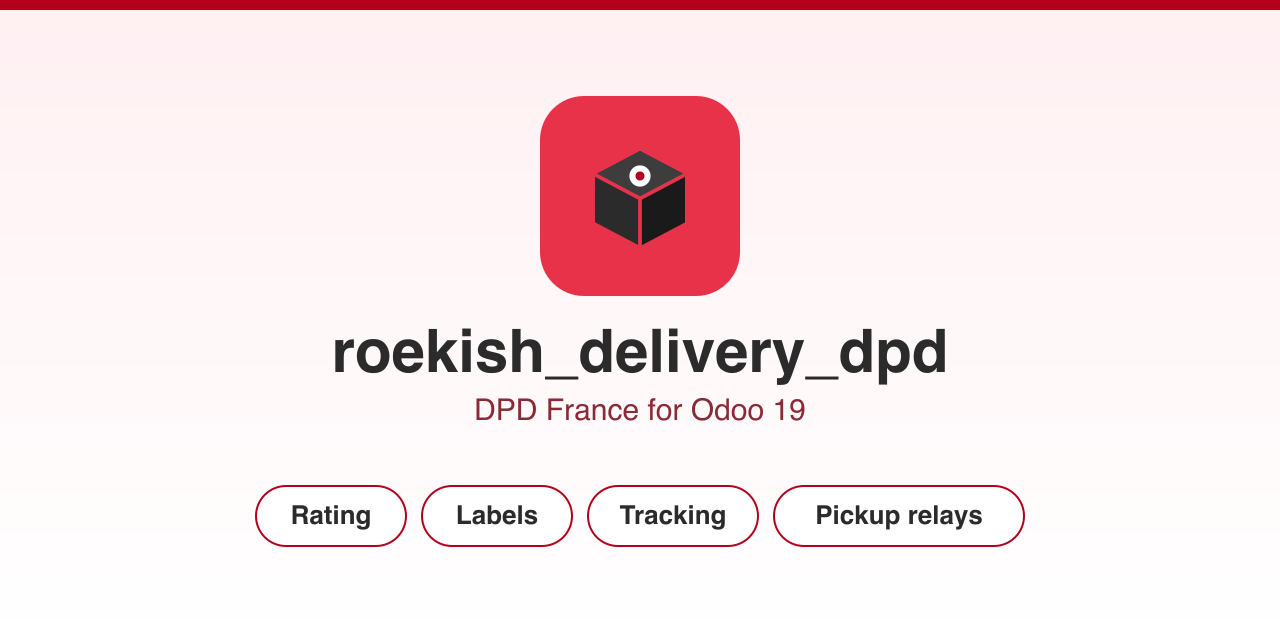
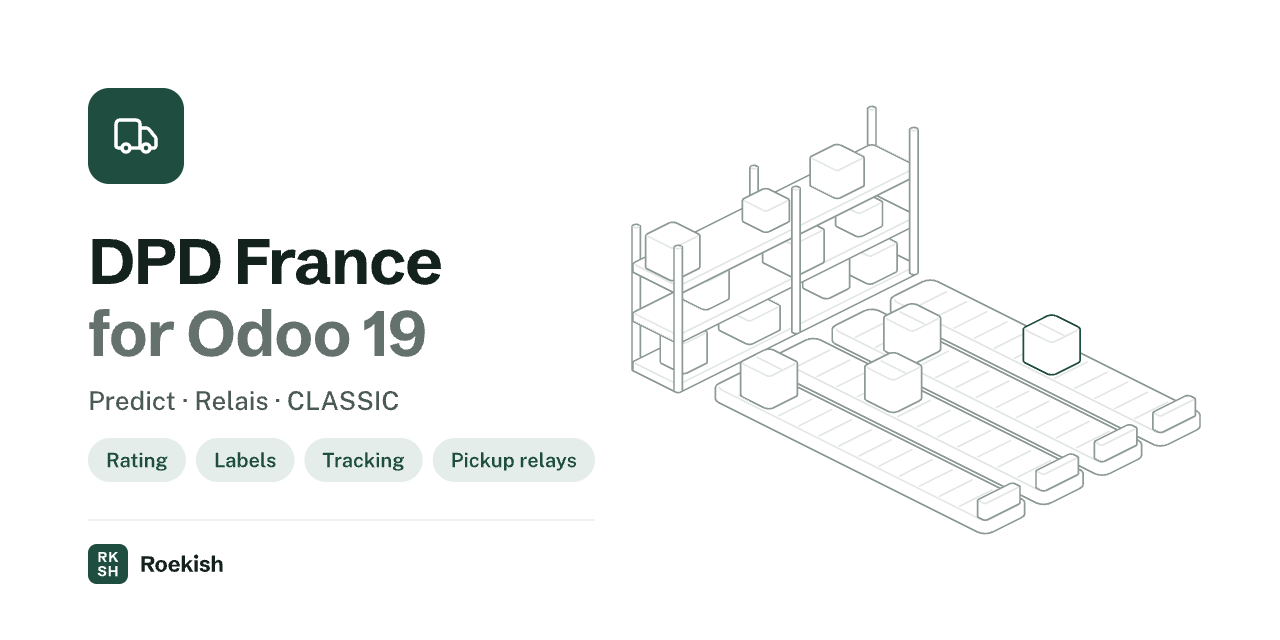
chore(store): Roekish brand assets and verified store page
New icon, banner and README logo in the Roekish brand; App Store
description restyled, with every fact checked against the README and code.

diff --git a/roekish_delivery_dpd/static/description/index.html b/roekish_delivery_dpd/static/description/index.html
@@ -1,61 +1,36 @@
-<section style="font-family:'Segoe UI',Roboto,Helvetica,Arial,sans-serif;color:#22344F;max-width:960px;margin:0 auto;">
+<section style="font-family:'Schibsted Grotesk','Public Sans',-apple-system,'Segoe UI',Roboto,Helvetica,Arial,sans-serif;color:#13221D;background:#FFFFFF;max-width:960px;margin:0 auto;padding:0 16px;box-sizing:border-box;">
 
-  <p style="text-align:center;margin:0 0 24px;">
-    <img src="banner.png" alt="roekish_delivery_dpd" style="max-width:100%;height:auto;border-radius:8px;"/>
+  <p style="margin:0 0 32px;">
+    <img src="banner.png" alt="DPD France for Odoo 19, published by Roekish" style="display:block;width:100%;max-width:100%;height:auto;border:1px solid #E2E7E4;border-radius:12px;"/>
   </p>
 
-  <h1 style="text-align:center;font-size:34px;margin:8px 0;">DPD France for Odoo 19: Predict, Relais, CLASSIC</h1>
-  <p style="text-align:center;font-size:18px;color:#5c6b82;margin:0 0 32px;">
-    Rate shipments, generate labels, track parcels and offer Pickup relay
-    delivery, straight from Odoo.
+  <p style="margin:0 0 8px;font-size:13px;font-weight:600;letter-spacing:0.06em;text-transform:uppercase;color:#1F4D3F;">Odoo 19 &middot; Inventory / Delivery</p>
+  <h1 style="font-family:'Schibsted Grotesk','Public Sans',-apple-system,'Segoe UI',Roboto,Helvetica,Arial,sans-serif;font-size:34px;line-height:1.15;font-weight:700;letter-spacing:-0.02em;color:#13221D;margin:0 0 12px;">DPD France for Odoo 19: Predict, Relais, CLASSIC</h1>
+  <p style="font-size:18px;line-height:1.6;color:#4C5A55;margin:0 0 8px;">Rate shipments, generate labels, track parcels and offer Pickup relay delivery from Odoo.</p>
+
+  <h2 style="font-family:'Schibsted Grotesk','Public Sans',-apple-system,'Segoe UI',Roboto,Helvetica,Arial,sans-serif;font-size:22px;font-weight:700;letter-spacing:-0.01em;color:#13221D;margin:44px 0 16px;padding-bottom:10px;border-bottom:2px solid #1F4D3F;">Features</h2>
+  <table style="width:100%;border-collapse:collapse;border-bottom:1px solid #E2E7E4;margin:0 0 8px;"><tr><td style="padding:12px 16px 12px 0;border-top:1px solid #E2E7E4;vertical-align:top;width:30%;font-family:'Schibsted Grotesk','Public Sans',-apple-system,'Segoe UI',Roboto,Helvetica,Arial,sans-serif;font-weight:600;font-size:15px;color:#13221D;">Rating</td><td style="padding:12px 0;border-top:1px solid #E2E7E4;vertical-align:top;font-size:15px;line-height:1.6;color:#4C5A55;">Delivery price computed from a DPD tariff grid (weight by zone) or from Odoo's native pricing rules. On the grid, a fuel surcharge (%) and fixed fees per parcel are added, and the volumetric weight (volume in cm&sup3; divided by a divisor, 5000 at DPD) can replace the real weight when it is greater.</td></tr><tr><td style="padding:12px 16px 12px 0;border-top:1px solid #E2E7E4;vertical-align:top;width:30%;font-family:'Schibsted Grotesk','Public Sans',-apple-system,'Segoe UI',Roboto,Helvetica,Arial,sans-serif;font-weight:600;font-size:15px;color:#13221D;">Delivery time</td><td style="padding:12px 0;border-top:1px solid #E2E7E4;vertical-align:top;font-size:15px;line-height:1.6;color:#4C5A55;">Announced delivery time in working days (minimum and maximum), set on the carrier and overridable per zone in the tariff grid. Returned with every quote and shown in the shipping wizard, so carriers can be compared on cost and speed.</td></tr><tr><td style="padding:12px 16px 12px 0;border-top:1px solid #E2E7E4;vertical-align:top;width:30%;font-family:'Schibsted Grotesk','Public Sans',-apple-system,'Segoe UI',Roboto,Helvetica,Arial,sans-serif;font-weight:600;font-size:15px;color:#13221D;">Labels</td><td style="padding:12px 0;border-top:1px solid #E2E7E4;vertical-align:top;font-size:15px;line-height:1.6;color:#4C5A55;">DPD label generation through <code style="font-family:SFMono-Regular,Menlo,Consolas,monospace;font-size:14px;background:#F4F6F5;color:#13221D;padding:1px 5px;border-radius:4px;">roulier</code> on the e-Station web service (production or test environment), with the parcel number stored on the delivery order. PDF, PDF A6, ZPL or PNG.</td></tr><tr><td style="padding:12px 16px 12px 0;border-top:1px solid #E2E7E4;vertical-align:top;width:30%;font-family:'Schibsted Grotesk','Public Sans',-apple-system,'Segoe UI',Roboto,Helvetica,Arial,sans-serif;font-weight:600;font-size:15px;color:#13221D;">Tracking</td><td style="padding:12px 0;border-top:1px solid #E2E7E4;vertical-align:top;font-size:15px;line-height:1.6;color:#4C5A55;">A DPD tracking link is exposed to the customer.</td></tr><tr><td style="padding:12px 16px 12px 0;border-top:1px solid #E2E7E4;vertical-align:top;width:30%;font-family:'Schibsted Grotesk','Public Sans',-apple-system,'Segoe UI',Roboto,Helvetica,Arial,sans-serif;font-weight:600;font-size:15px;color:#13221D;">Pickup relays</td><td style="padding:12px 0;border-top:1px solid #E2E7E4;vertical-align:top;font-size:15px;line-height:1.6;color:#4C5A55;">Search nearby relays (Pickup MyPudo web service) and select one on the quotation or the delivery order, propagated on confirmation and sent on the label. The search key is optional: without it, type the relay ID directly.</td></tr><tr><td style="padding:12px 16px 12px 0;border-top:1px solid #E2E7E4;vertical-align:top;width:30%;font-family:'Schibsted Grotesk','Public Sans',-apple-system,'Segoe UI',Roboto,Helvetica,Arial,sans-serif;font-weight:600;font-size:15px;color:#13221D;">Products</td><td style="padding:12px 0;border-top:1px solid #E2E7E4;vertical-align:top;font-size:15px;line-height:1.6;color:#4C5A55;">DPD CLASSIC, DPD Predict (SMS time slot) and DPD Relais. CLASSIC and Relais parcels can notify the recipient by SMS or email; Predict always uses the Predict SMS.</td></tr></table>
+
+  <h2 style="font-family:'Schibsted Grotesk','Public Sans',-apple-system,'Segoe UI',Roboto,Helvetica,Arial,sans-serif;font-size:22px;font-weight:700;letter-spacing:-0.01em;color:#13221D;margin:44px 0 16px;padding-bottom:10px;border-bottom:2px solid #1F4D3F;">Carriers and zones</h2>
+  <p style="font-size:16px;line-height:1.65;color:#4C5A55;margin:0 0 14px;">Three ready-to-use carriers ship with indicative 2026 rates as editable demo data. DPD France publishes no public rate card: rates are negotiated per contract, so replace the demo grids with yours.</p>
+  <p style="margin:0 0 14px;"><span style="display:inline-block;margin:0 6px 8px 0;padding:5px 12px;border-radius:999px;background:#E4EDE9;color:#1F4D3F;font-size:14px;font-weight:600;line-height:1.3;">DPD Predict</span><span style="display:inline-block;margin:0 6px 8px 0;padding:5px 12px;border-radius:999px;background:#E4EDE9;color:#1F4D3F;font-size:14px;font-weight:600;line-height:1.3;">DPD Relais</span><span style="display:inline-block;margin:0 6px 8px 0;padding:5px 12px;border-radius:999px;background:#E4EDE9;color:#1F4D3F;font-size:14px;font-weight:600;line-height:1.3;">DPD CLASSIC Europe</span></p>
+  <p style="font-size:16px;line-height:1.65;color:#4C5A55;margin:0 0 14px;">Zones follow the zoning of DPD France contracts. Fuel surcharge, fixed fees per parcel and the optional volumetric divisor are set on the carrier.</p><table style="width:100%;border-collapse:collapse;border-bottom:1px solid #E2E7E4;margin:0 0 8px;"><tr><td style="padding:12px 16px 12px 0;border-top:1px solid #E2E7E4;vertical-align:top;width:30%;font-family:'Schibsted Grotesk','Public Sans',-apple-system,'Segoe UI',Roboto,Helvetica,Arial,sans-serif;font-weight:600;font-size:15px;color:#13221D;">France</td><td style="padding:12px 0;border-top:1px solid #E2E7E4;vertical-align:top;font-size:15px;line-height:1.6;color:#4C5A55;">Metropolitan France, Monaco</td></tr><tr><td style="padding:12px 16px 12px 0;border-top:1px solid #E2E7E4;vertical-align:top;width:30%;font-family:'Schibsted Grotesk','Public Sans',-apple-system,'Segoe UI',Roboto,Helvetica,Arial,sans-serif;font-weight:600;font-size:15px;color:#13221D;">Euro 1</td><td style="padding:12px 0;border-top:1px solid #E2E7E4;vertical-align:top;font-size:15px;line-height:1.6;color:#4C5A55;">Germany, Belgium, Luxembourg, Netherlands</td></tr><tr><td style="padding:12px 16px 12px 0;border-top:1px solid #E2E7E4;vertical-align:top;width:30%;font-family:'Schibsted Grotesk','Public Sans',-apple-system,'Segoe UI',Roboto,Helvetica,Arial,sans-serif;font-weight:600;font-size:15px;color:#13221D;">Euro 2</td><td style="padding:12px 0;border-top:1px solid #E2E7E4;vertical-align:top;font-size:15px;line-height:1.6;color:#4C5A55;">Austria, Spain, United Kingdom, Italy, Liechtenstein, Poland, Portugal, Czechia, Switzerland</td></tr><tr><td style="padding:12px 16px 12px 0;border-top:1px solid #E2E7E4;vertical-align:top;width:30%;font-family:'Schibsted Grotesk','Public Sans',-apple-system,'Segoe UI',Roboto,Helvetica,Arial,sans-serif;font-weight:600;font-size:15px;color:#13221D;">Euro 3</td><td style="padding:12px 0;border-top:1px solid #E2E7E4;vertical-align:top;font-size:15px;line-height:1.6;color:#4C5A55;">Andorra, Croatia, Denmark, Estonia, Hungary, Ireland, Latvia, Lithuania, Slovakia, Slovenia, Sweden</td></tr><tr><td style="padding:12px 16px 12px 0;border-top:1px solid #E2E7E4;vertical-align:top;width:30%;font-family:'Schibsted Grotesk','Public Sans',-apple-system,'Segoe UI',Roboto,Helvetica,Arial,sans-serif;font-weight:600;font-size:15px;color:#13221D;">Euro 4</td><td style="padding:12px 0;border-top:1px solid #E2E7E4;vertical-align:top;font-size:15px;line-height:1.6;color:#4C5A55;">Bulgaria, Finland, Greece, Norway, Romania</td></tr><tr><td style="padding:12px 16px 12px 0;border-top:1px solid #E2E7E4;vertical-align:top;width:30%;font-family:'Schibsted Grotesk','Public Sans',-apple-system,'Segoe UI',Roboto,Helvetica,Arial,sans-serif;font-weight:600;font-size:15px;color:#13221D;">Euro 5</td><td style="padding:12px 0;border-top:1px solid #E2E7E4;vertical-align:top;font-size:15px;line-height:1.6;color:#4C5A55;">Bosnia, Serbia</td></tr><tr><td style="padding:12px 16px 12px 0;border-top:1px solid #E2E7E4;vertical-align:top;width:30%;font-family:'Schibsted Grotesk','Public Sans',-apple-system,'Segoe UI',Roboto,Helvetica,Arial,sans-serif;font-weight:600;font-size:15px;color:#13221D;">Intercontinental</td><td style="padding:12px 0;border-top:1px solid #E2E7E4;vertical-align:top;font-size:15px;line-height:1.6;color:#4C5A55;">Rest of the world</td></tr></table>
+
+  <h2 style="font-family:'Schibsted Grotesk','Public Sans',-apple-system,'Segoe UI',Roboto,Helvetica,Arial,sans-serif;font-size:22px;font-weight:700;letter-spacing:-0.01em;color:#13221D;margin:44px 0 16px;padding-bottom:10px;border-bottom:2px solid #1F4D3F;">Security</h2>
+  <ul style="font-size:16px;line-height:1.65;color:#4C5A55;margin:0 0 14px;padding-left:20px;"><li style="margin:0 0 8px;">e-Station credentials and the Pickup search key are restricted to the DPD Administrator group, and secrets are masked in error messages.</li><li style="margin:0 0 8px;">Fine-grained access rights with dedicated User and Administrator groups.</li><li style="margin:0 0 8px;">Multi-company isolation on the tariff grids.</li></ul>
+
+  <h2 style="font-family:'Schibsted Grotesk','Public Sans',-apple-system,'Segoe UI',Roboto,Helvetica,Arial,sans-serif;font-size:22px;font-weight:700;letter-spacing:-0.01em;color:#13221D;margin:44px 0 16px;padding-bottom:10px;border-bottom:2px solid #1F4D3F;">Requirements</h2>
+  <p style="font-size:16px;line-height:1.65;color:#4C5A55;margin:0 0 14px;">The module builds on Odoo's native delivery framework. Rating and relay search work with no external library. Label generation uses <code style="font-family:SFMono-Regular,Menlo,Consolas,monospace;font-size:14px;background:#F4F6F5;color:#13221D;padding:1px 5px;border-radius:4px;">roulier</code>, optional and imported on demand.</p>
+  <p style="font-size:15px;line-height:1.65;color:#13221D;background:#E4EDE9;border-left:3px solid #1F4D3F;padding:14px 18px;border-radius:8px;margin:0 0 14px;">Deploy the module on the <code style="font-family:SFMono-Regular,Menlo,Consolas,monospace;font-size:14px;background:#F4F6F5;color:#13221D;padding:1px 5px;border-radius:4px;">addons_path</code> (Odoo.sh or On-Premise). The Apps &gt; Import Module zip upload is data-only and cannot install a module that ships Python models. On Odoo Online (SaaS) Python libraries cannot be installed either, so label generation needs Odoo.sh or On-Premise, where <code style="font-family:SFMono-Regular,Menlo,Consolas,monospace;font-size:14px;background:#F4F6F5;color:#13221D;padding:1px 5px;border-radius:4px;">roulier</code> is available.</p>
+
+  <p style="text-align:center;margin:40px 0 12px;">
+    <a href="https://www.roekish.com/applications/dpd-france/documentation" style="display:inline-block;background:#1F4D3F;color:#FFFFFF;text-decoration:none;padding:12px 26px;border-radius:999px;font-weight:600;font-size:15px;margin:0 4px 10px;">Read the documentation</a>
+    <a href="https://github.com/roekish-org/odoo-delivery-dpd" style="display:inline-block;background:#FFFFFF;color:#1F4D3F;text-decoration:none;padding:11px 25px;border-radius:999px;border:1px solid #1F4D3F;font-weight:600;font-size:15px;margin:0 4px 10px;">Source code on GitHub</a>
   </p>
 
-  <h2 style="border-bottom:3px solid #DC0032;padding-bottom:6px;">Features</h2>
-  <ul style="font-size:16px;line-height:1.7;">
-    <li><b>Rating</b>: delivery price computed from a DPD tariff grid (weight by zone) or from Odoo's native pricing rules.</li>
-    <li><b>Delivery time</b>: announced delivery time in working days, set on the carrier and per zone, returned with every quote and shown in the shipping wizard so carriers can be compared on cost and speed.</li>
-    <li><b>Labels</b>: DPD label generation on the e-Station web service (production or test environment), with the parcel number stored on the delivery order. PDF, PDF A6, ZPL or PNG.</li>
-    <li><b>Tracking</b>: a DPD tracking link is exposed to the customer.</li>
-    <li><b>Pickup relays</b>: search nearby relays and select one on the sale order or the delivery order, propagated on confirmation and sent on the label.</li>
-    <li><b>Products</b>: DPD CLASSIC, DPD Predict (SMS time slot) and DPD Relais, with SMS or email notification of the recipient.</li>
-  </ul>
-
-  <h2 style="border-bottom:3px solid #DC0032;padding-bottom:6px;">Carriers and zones</h2>
-  <p style="font-size:16px;line-height:1.7;">
-    Three ready-to-use carriers ship with indicative 2026 rates, which you
-    replace with your own contract rates: DPD Predict, DPD Relais and DPD
-    CLASSIC Europe. Zones cover metropolitan France, Europe zone 1 (Germany,
-    Belgium, Luxembourg, Netherlands), Europe zone 2 (rest of Europe, United
-    Kingdom, Switzerland) and Intercontinental.
-  </p>
-
-  <h2 style="border-bottom:3px solid #DC0032;padding-bottom:6px;">Security</h2>
-  <ul style="font-size:16px;line-height:1.7;">
-    <li>e-Station credentials and the Pickup key are restricted to the DPD Administrator group, and secrets are masked in error messages.</li>
-    <li>Fine-grained access rights with dedicated User and Administrator groups.</li>
-    <li>Multi-company isolation on the tariff grids.</li>
-  </ul>
-
-  <h2 style="border-bottom:3px solid #DC0032;padding-bottom:6px;">Requirements</h2>
-  <p style="font-size:16px;line-height:1.7;">
-    The module builds on Odoo's native delivery framework. Rating and relay
-    search work with no external library. Label generation uses
-    <code>roulier</code>, optional and imported on demand.
-  </p>
-  <p style="font-size:15px;line-height:1.7;background:#FDECEF;border-left:4px solid #DC0032;padding:12px 16px;border-radius:6px;">
-    Deploy the module on the <code>addons_path</code> (Odoo.sh or On-Premise).
-    The Apps &gt; Import Module zip upload is data-only and cannot install a
-    module that ships Python models. On Odoo Online (SaaS) Python libraries
-    cannot be installed either, so label generation needs Odoo.sh or
-    On-Premise, where <code>roulier</code> is available.
-  </p>
-
-  <div style="text-align:center;margin:32px 0 8px;">
-    <a href="https://github.com/roekish-org/odoo-delivery-dpd" style="display:inline-block;background:#DC0032;color:#fff;text-decoration:none;padding:12px 28px;border-radius:28px;font-weight:600;">Source code and documentation</a>
+  <div style="margin:32px 0 8px;padding-top:20px;border-top:1px solid #E2E7E4;text-align:center;font-size:14px;line-height:1.7;color:#64716C;">
+    <p style="margin:0 0 6px;"><span style="display:inline-block;vertical-align:middle;width:30px;height:30px;border-radius:7px;background:#1F4D3F;color:#FFFFFF;font-family:'Schibsted Grotesk','Public Sans',-apple-system,'Segoe UI',Roboto,Helvetica,Arial,sans-serif;font-weight:700;font-size:11px;line-height:12px;letter-spacing:0.5px;text-align:center;padding-top:3px;box-sizing:border-box;">RK<br/>SH</span> <span style="vertical-align:middle;margin-left:6px;">Published by <a href="https://www.roekish.com" style="color:#1F4D3F;text-decoration:underline;text-underline-offset:2px;font-weight:600;">Roekish</a></span></p>
+    <p style="margin:0;"><a href="https://www.roekish.com/applications/dpd-france" style="color:#1F4D3F;text-decoration:underline;text-underline-offset:2px;">Product page</a> &middot; <a href="https://www.roekish.com/applications/dpd-france/documentation" style="color:#1F4D3F;text-decoration:underline;text-underline-offset:2px;">Documentation</a> &middot; <a href="https://github.com/roekish-org/odoo-delivery-dpd" style="color:#1F4D3F;text-decoration:underline;text-underline-offset:2px;">GitHub</a> &middot; AGPL-3.0 licence</p>
   </div>
-
-  <p style="text-align:center;color:#8a94a6;font-size:14px;margin-top:24px;">
-    AGPL-3.0 licence. Published by ROEKISH.
-  </p>
 
 </section>
